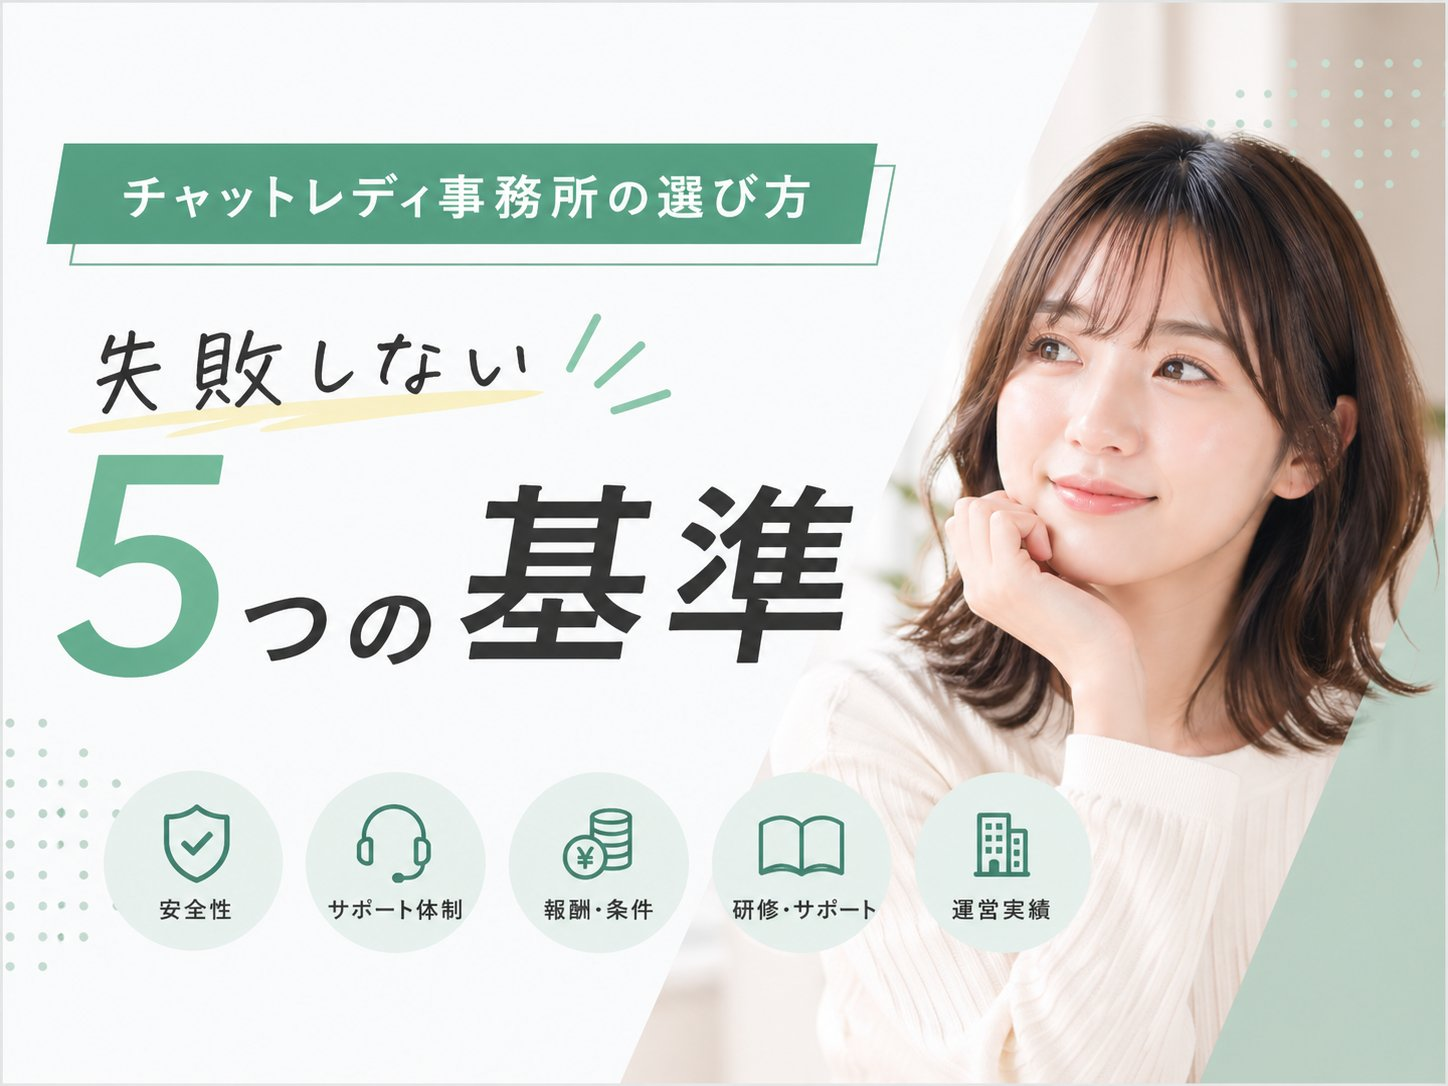
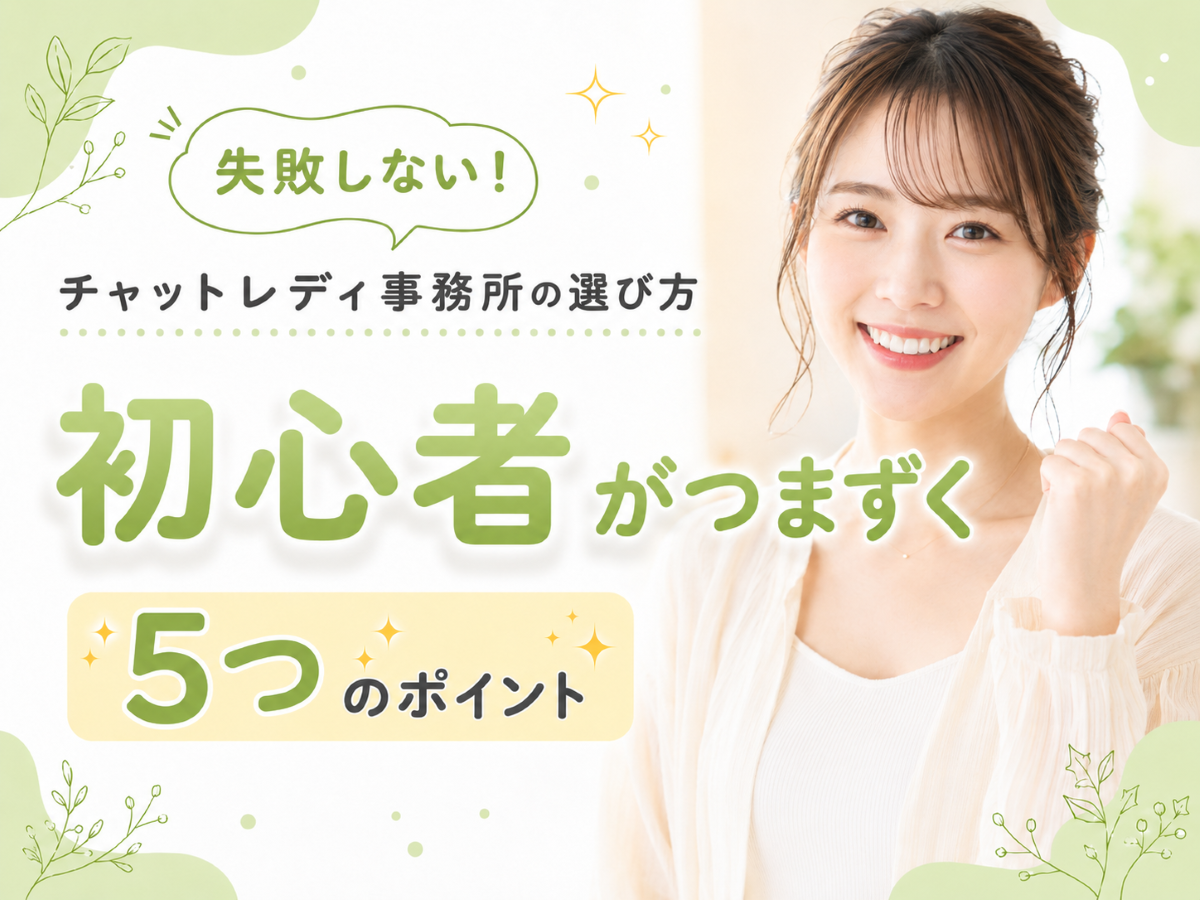
事務所選びのカバー画像を新デザイン（万歳・パステルグリーン）に差し替え
col-jimusho-erabi.png を上書き更新（同名のためカバー・TOPカルーセル・お悩み一覧に自動反映）。
カバーのaltも新タイトルに統一。

diff --git a/app/q/jimusho-erabi/page.tsx b/app/q/jimusho-erabi/page.tsx
@@ -108,7 +108,7 @@ export default function ColJimushoErabiPage() {
       <FAQSchema items={FAQS} />
 
       <L3ArticleShell
-        coverImage={{ src: "/col-jimusho-erabi.png", alt: "チャットレディ事務所の選び方｜初めてでも失敗しない見極め方" }}
+        coverImage={{ src: "/col-jimusho-erabi.png", alt: "失敗しない！チャットレディ事務所の選び方｜初心者がつまずく5つのポイント" }}
         breadcrumb={[
           { l: "トップ", href: "/" },
           { l: "お悩みから探す", href: "/q" },
